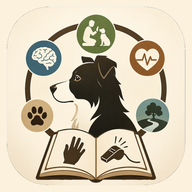
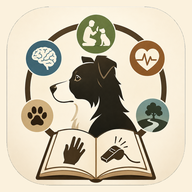
アイコン生成を、外周とつながった黒だけを塗る方式に変更
外周からの距離で黒を判定していたが、余白の厚みは元画像によって違うので
絵を削る恐れがあった。1px の黒枠を足して角から塗りつぶす方式に統一。
猫版(cat-reference-app)と同じ処理になった。出力の見た目は変わらない。

Changed region(s): [[0.25, 0.9062, 0.75, 0.9688], [0.0312, 0.25, 0.0625, 0.75], [0.75, 0.9062, 0.7812, 0.9375]]

diff --git a/build_pwa.py b/build_pwa.py
@@ -142,30 +142,26 @@ def build_html():
 
 
 def build_icons():
-    """元画像から icons/ 一式を作る。周囲の余白は地の色で埋めて正方形にする。"""
+    """元画像から icons/ 一式を作る。周囲の黒い余白は地の色で埋めて正方形にする。
+
+    余白の厚みは元画像によって違うので、外周からの距離では判定しない。
+    1px の黒枠を足した上でその角から塗りつぶすことで、
+    「画像の外周とつながっている黒」だけが対象になる。絵の中の黒は残る。
+    """
     from PIL import Image, ImageDraw
 
     im = Image.open(ICON_SRC).convert("RGB")
     w, h = im.size
 
-    # 角の黒い余白を地の色で塗り、絵を正方形いっぱいにする
-    for corner in [(0, 0), (w - 1, 0), (0, h - 1), (w - 1, h - 1)]:
-        ImageDraw.floodfill(im, corner, ICON_BG, thresh=70)
-
-    # 丸角の外側に残った黒を掃除する(外周80px内だけ。絵の中の黒は触らない)
-    px = im.load()
-    for y in range(h):
-        for x in range(w):
-            r, g, b = px[x, y]
-            if r < 45 and g < 45 and b < 45:
-                if x < 90 or y < 90 or x > w - 90 or y > h - 90:
-                    px[x, y] = ICON_BG
-
-    base = im.resize((1024, 1024), Image.LANCZOS)
+    padded = Image.new("RGB", (w + 2, h + 2), (0, 0, 0))
+    padded.paste(im, (1, 1))
+    ImageDraw.floodfill(padded, (0, 0), ICON_BG, thresh=60)
+    base = padded.crop((1, 1, w + 1, h + 1)).resize((1024, 1024), Image.LANCZOS)
 
     # maskable は端が切られるので、中身を80%に縮めて安全領域をとる
     maskable = Image.new("RGB", (512, 512), ICON_BG)
     maskable.paste(base.resize((410, 410), Image.LANCZOS), (51, 51))
+
 
     return {
         "icon-512.png": base.resize((512, 512), Image.LANCZOS),
